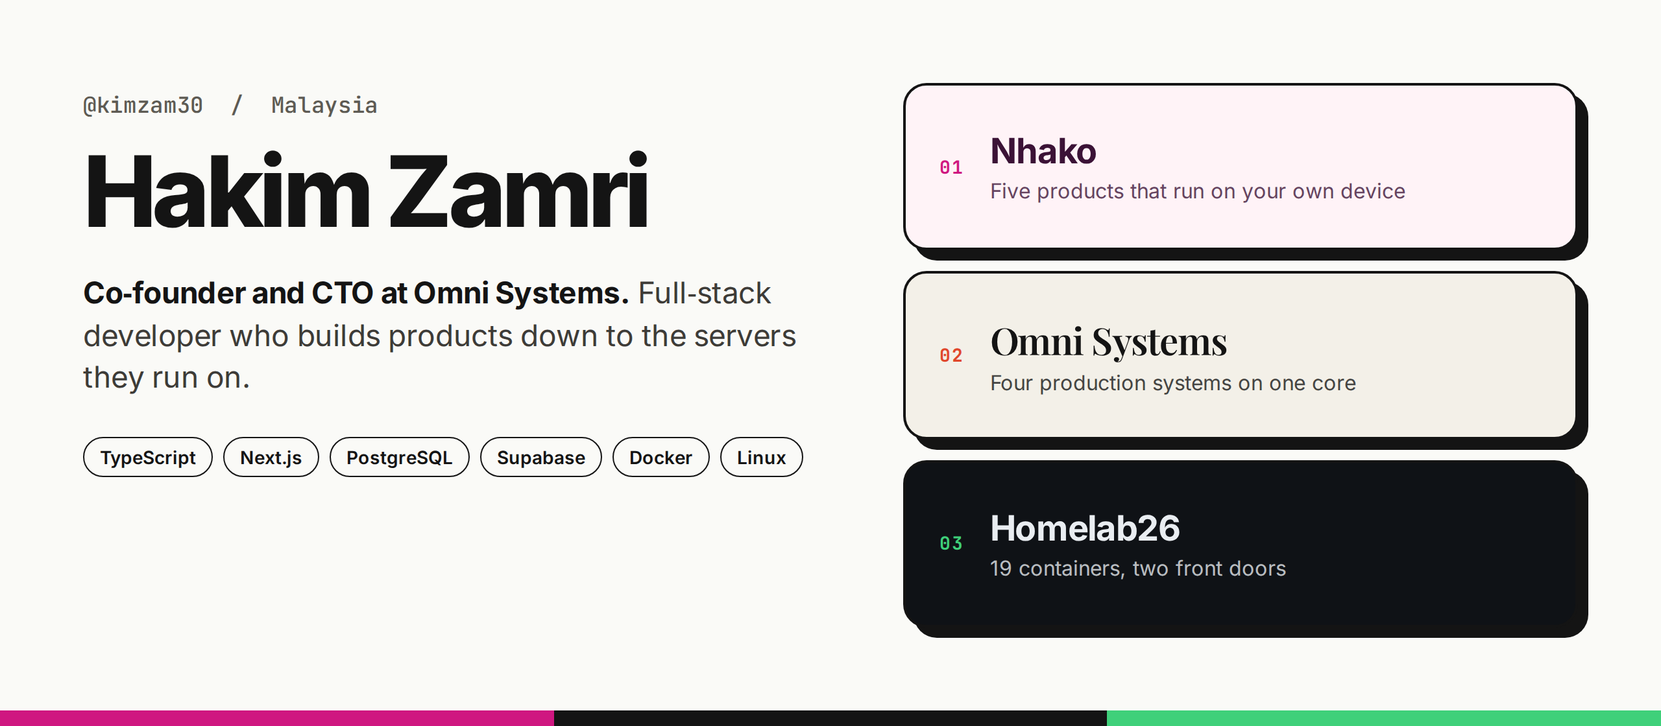
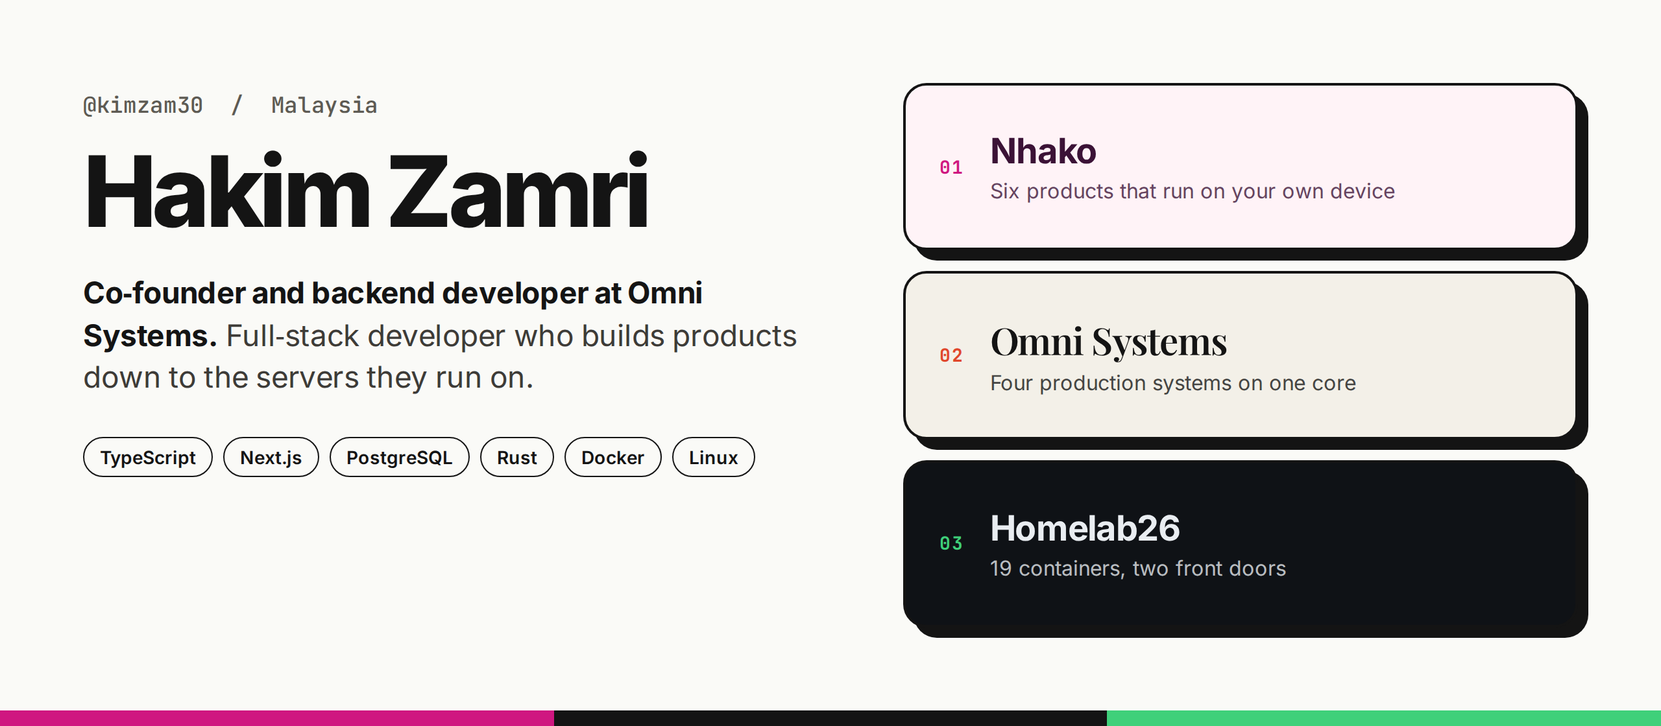
latestinfo

Changed region(s): [[0.0312, 0.375, 0.4688, 0.5312], [0.3125, 0.5938, 0.4688, 0.6562], [0.5938, 0.25, 0.8438, 0.2812]]

diff --git a/launch/posters.html b/launch/posters.html
@@ -7,8 +7,9 @@
 <link href="https://fonts.googleapis.com/css2?family=Inter:wght@400;500;600;700;800&family=JetBrains+Mono:wght@500;700&family=Playfair+Display:ital,wght@0,600;1,600&display=block" rel="stylesheet">
 <style>
   /*
-   * Launch posters for the profile README. One file, four layouts, picked by
-   * ?p=nhako|omni|homelab|banner. House rules: flat fills only (no gradients
+   * Launch posters for the profile README. One file, six layouts, picked by
+   * ?p=nhako|omni|homelab|beam|depot|banner. Beam and Depot use their own
+   * project palettes. House rules: flat fills only (no gradients
    * anywhere, including shadows, which are hard offsets), and no em dashes in
    * any copy.
    */
@@ -52,13 +53,13 @@
   #nhako .win .bar .url { background: #fff; color: #3b1236; border: 2px solid #3b1236; }
   #nhako .phone .screen { background: #fef2f7; }
   #nhako .phone { left: 748px; top: 470px; width: 262px; height: 520px; background: #3b1236; box-shadow: 12px 12px 0 #cf1780; }
-  #nhako .shelf { position: absolute; left: 64px; right: 64px; top: 1030px; display: grid; grid-template-columns: repeat(5, 1fr); gap: 14px; }
-  #nhako .card { display: flex; flex-direction: column; align-items: flex-start; background: #fff; border: 3px solid #3b1236; border-radius: 16px; padding: 16px 14px 14px; box-shadow: 6px 6px 0 #3b1236; }
-  #nhako .card .ic { width: 40px; height: 40px; border-radius: 10px; }
-  #nhako .card svg.ic { padding: 8px; background: #ffe3ee; border: 2px solid #3b1236; fill: none; stroke: #3b1236; stroke-width: 2; stroke-linejoin: miter; }
-  #nhako .card b { display: block; margin-top: 12px; font-size: 18px; letter-spacing: -.02em; }
-  #nhako .card span { display: block; margin-top: 4px; font-size: 14px; line-height: 1.3; color: #7d4a73; }
-  #nhako .pill { font-style: normal; margin-top: auto; display: inline-block; padding: 4px 10px; border-radius: 999px; font-size: 12px; font-weight: 700; letter-spacing: .04em; text-transform: uppercase; border: 2px solid #3b1236; }
+  #nhako .shelf { position: absolute; left: 64px; right: 64px; top: 1026px; display: grid; grid-template-columns: repeat(3, 1fr); gap: 16px 18px; }
+  #nhako .card { position: relative; display: flex; align-items: center; gap: 14px; height: 88px; background: #fff; border: 3px solid #3b1236; border-radius: 16px; padding: 0 14px; box-shadow: 6px 6px 0 #3b1236; }
+  #nhako .card .ic { flex: none; width: 44px; height: 44px; border-radius: 11px; }
+  #nhako .card svg.ic { padding: 9px; background: #ffe3ee; border: 2px solid #3b1236; fill: none; stroke: #3b1236; stroke-width: 2; stroke-linejoin: miter; }
+  #nhako .card b { display: block; font-size: 19px; letter-spacing: -.02em; }
+  #nhako .card span { display: block; margin-top: 3px; font-size: 14px; line-height: 1.25; color: #7d4a73; }
+  #nhako .pill { position: absolute; top: -13px; right: 12px; font-style: normal; display: inline-block; padding: 3px 9px; border-radius: 999px; font-size: 11px; font-weight: 700; letter-spacing: .05em; text-transform: uppercase; border: 2px solid #3b1236; background: #fff; }
   #nhako .pill.live { background: #cf1780; border-color: #cf1780; color: #fff; }
   #nhako .cta { background: #3b1236; color: #fff; }
 
@@ -125,6 +126,73 @@
   #homelab .kin span b { color: #e9edf1; }
   #homelab .cta { background: #3fd07a; color: #0f1216; font-family: "JetBrains Mono", monospace; font-size: 19px; }
 
+  /* ================= BEAM (Nhako Beam brand: blue, dark blue, yellow, ink) ================= */
+  #beam { width: 1080px; height: 1350px; background: #2f8fff; color: #fff; }
+  #beam .brand { font-size: 30px; }
+  #beam .brand .mark { width: 58px; height: 58px; border-radius: 15px; background: #0b1b33; display: grid; place-items: center; }
+  #beam .brand .mark img { width: 34px; height: 34px; }
+  #beam .brand em { font-style: normal; color: #0b1b33; }
+  #beam .tag { padding: 10px 20px; border-radius: 999px; background: #ffd23f; color: #0b1b33; font-size: 18px; font-weight: 800; letter-spacing: -.01em; box-shadow: 5px 5px 0 #1a6fe0; }
+  #beam h1 { font-size: 96px; letter-spacing: -.055em; }
+  #beam h1 em { font-style: normal; color: #0b1b33; }
+  #beam .sub { top: 352px; width: 560px; font-size: 26px; }
+  #beam .bolt { position: absolute; left: 872px; top: 132px; width: 132px; transform: rotate(8deg); filter: drop-shadow(7px 7px 0 #1a6fe0); }
+  #beam .phone { left: 676px; top: 330px; width: 340px; height: 756px; background: #0b1b33; box-shadow: 14px 14px 0 #1a6fe0; border-radius: 52px; padding: 11px; }
+  #beam .phone .screen { border-radius: 42px; background: #f3f4f7; }
+  #beam .phone .screen img { width: 100%; height: 100%; margin: 0; object-fit: cover; object-position: top; }
+  #beam .feats { position: absolute; left: 64px; top: 520px; width: 560px; display: grid; gap: 18px; }
+  #beam .feat { display: flex; gap: 18px; align-items: flex-start; background: #fff; color: #0b1b33; border: 3px solid #0b1b33; border-radius: 18px; padding: 20px 22px; box-shadow: 8px 8px 0 #1a6fe0; }
+  #beam .feat .k { flex: none; width: 48px; height: 48px; border-radius: 12px; background: #ffd23f; border: 2.5px solid #0b1b33; display: grid; place-items: center; }
+  #beam .feat .k svg { width: 26px; height: 26px; fill: none; stroke: #0b1b33; stroke-width: 2.2; stroke-linecap: round; stroke-linejoin: round; }
+  #beam .feat b { display: block; font-size: 25px; letter-spacing: -.025em; }
+  #beam .feat span { display: block; margin-top: 4px; font-size: 17px; line-height: 1.35; color: #3a4a63; }
+  #beam .plat { position: absolute; left: 64px; top: 1132px; display: flex; gap: 12px; align-items: center; }
+  #beam .plat span { padding: 8px 16px; border: 2.5px solid #fff; border-radius: 999px; font-size: 17px; font-weight: 700; }
+  #beam .plat span.ink { border-color: #0b1b33; background: #0b1b33; }
+  #beam .cta { background: #0b1b33; color: #fff; }
+  #beam .fine { color: #e6f0ff; }
+
+  /* ================= DEPOT (Depot's own look: libadwaita light, violet and teal, real badge colours) ================= */
+  #depot { width: 1080px; height: 1350px; background: #f6f5f4; color: #1c1b22; }
+  #depot .brand { font-size: 30px; }
+  #depot .brand img { width: 54px; height: 54px; }
+  #depot .brand small { font-size: 18px; font-weight: 600; color: #6b6875; letter-spacing: 0; }
+  #depot .tag { padding: 10px 20px; border-radius: 999px; background: #14b8a6; color: #fff; font-size: 18px; font-weight: 800; letter-spacing: -.01em; box-shadow: 5px 5px 0 #1c1b22; }
+  #depot h1 { font-size: 92px; }
+  #depot h1 em { font-style: normal; color: #6d5dfc; }
+  #depot .sub { color: #4d4a57; }
+  #depot .app { position: absolute; left: 64px; top: 482px; width: 952px; height: 470px; background: #fff; border: 2.5px solid #1c1b22; border-radius: 16px; overflow: hidden; box-shadow: 14px 14px 0 #6d5dfc; display: grid; grid-template-columns: 236px 1fr; grid-template-rows: 54px 1fr; }
+  #depot .hb { grid-column: 1 / 3; display: flex; align-items: center; padding: 0 18px; border-bottom: 1px solid #dedde3; background: #fff; font-size: 16px; font-weight: 700; }
+  #depot .hb .dots { margin-left: auto; display: flex; gap: 10px; }
+  #depot .hb .dots i { width: 22px; height: 22px; border-radius: 50%; background: #ebeaef; }
+  #depot .hb .search { margin-left: 254px; width: 300px; height: 32px; border-radius: 8px; background: #ebeaef; font-size: 14px; font-weight: 500; color: #6b6875; display: flex; align-items: center; padding: 0 12px; }
+  #depot .side { background: #ebeaef; padding: 14px 10px; border-right: 1px solid #dedde3; }
+  #depot .side div { display: flex; align-items: center; justify-content: space-between; padding: 10px 12px; border-radius: 8px; font-size: 15px; font-weight: 600; color: #3a3843; }
+  #depot .side div.on { background: #d9d6f9; color: #1c1b22; }
+  #depot .side small { font-size: 12px; font-weight: 700; padding: 1px 8px; border-radius: 99px; background: #6d5dfc; color: #fff; }
+  #depot .side .sec { margin: 14px 12px 4px; padding: 0; font-size: 12px; letter-spacing: .1em; text-transform: uppercase; color: #8a8794; }
+  #depot .list { padding: 14px 18px; display: grid; gap: 10px; align-content: start; }
+  #depot .row { display: flex; align-items: center; gap: 14px; padding: 11px 14px; border: 1px solid #e3e2e8; border-radius: 12px; }
+  #depot .row .ic { width: 38px; height: 38px; border-radius: 10px; flex: none; display: grid; place-items: center; font-size: 17px; font-weight: 800; color: #fff; }
+  #depot .row b { display: block; font-size: 16px; }
+  #depot .row em { display: block; font-style: normal; font-size: 13px; color: #6b6875; margin-top: 2px; }
+  #depot .badge { margin-left: auto; border-radius: 99px; padding: 3px 11px; font-size: 13px; font-weight: 700; }
+  #depot .deb { background: #f9dbe6; color: #d70a53; }
+  #depot .snap { background: #fbe2d8; color: #e95420; }
+  #depot .flatpak { background: #dfe9f7; color: #4a90d9; }
+  #depot .manual { background: #d8f2e6; color: #1f9e63; }
+  #depot .btn { margin-left: 10px; padding: 5px 12px; border-radius: 8px; background: #ebeaef; font-size: 13px; font-weight: 700; color: #3a3843; }
+  #depot .btn.go { background: #6d5dfc; color: #fff; }
+  #depot .stats { position: absolute; left: 64px; right: 64px; top: 1000px; display: grid; grid-template-columns: repeat(4, 1fr); border-top: 2.5px solid #1c1b22; }
+  #depot .stat { padding-top: 18px; padding-right: 12px; }
+  #depot .stat b { display: block; font-size: 52px; font-weight: 800; letter-spacing: -.045em; line-height: 1; }
+  #depot .stat b small { font-size: 26px; letter-spacing: -.02em; }
+  #depot .stat span { display: block; margin-top: 8px; font-size: 16px; line-height: 1.3; color: #4d4a57; }
+  #depot .distros { position: absolute; left: 64px; right: 64px; top: 1150px; display: flex; gap: 10px; flex-wrap: wrap; }
+  #depot .distros span { padding: 6px 13px; border: 1.5px solid #1c1b22; border-radius: 999px; font-size: 14px; font-weight: 600; }
+  #depot .cta { background: #1c1b22; color: #fff; }
+  #depot .fine { color: #4d4a57; }
+
   /* ================= BANNER ================= */
   #banner { width: 1280px; height: 560px; background: #fafaf7; color: #141414; }
   #banner .who { position: absolute; left: 64px; top: 70px; width: 560px; }
@@ -159,7 +227,7 @@
     <div class="count">Ecosystem 01 / 03</div>
   </div>
   <h1>Things that run<br><em>on your own device.</em></h1>
-  <p class="sub">Five products from one small workshop in Malaysia. Browser tools that never upload your files, a word&#8209;search game for two, and a screenshot extension with no network calls.</p>
+  <p class="sub">Six products from one small workshop in Malaysia, with a seventh on the way. Browser tools that never upload, a word&#8209;search game for two, file transfer straight between your devices, and a Linux app manager.</p>
 
   <div class="win">
     <div class="bar"><i></i><i></i><i></i><div class="url">tools.nhako.com</div></div>
@@ -168,11 +236,12 @@
   <div class="phone"><div class="screen"><div class="island"></div><img src="shots/search-board.jpg" alt=""></div></div>
 
   <div class="shelf">
-    <div class="card"><img class="ic" src="shots/tools-icon.png" alt=""><b>Nhako Tools</b><span>50 tools, nothing uploads</span><i class="pill live">Live</i></div>
-    <div class="card"><img class="ic" src="shots/search-icon.png" alt=""><b>NhakoSearch</b><span>Word search for two</span><i class="pill live">Live</i></div>
-    <div class="card"><img class="ic" src="shots/capture-icon.png" alt=""><b>NhakoCapture</b><span>Screenshots for Brave and Chrome</span><i class="pill">v2.0</i></div>
-    <div class="card"><svg class="ic" viewBox="0 0 24 24"><path d="M3 4h18v12H10l-5 4v-4H3z"/><path d="M7.4 9.2h1.8v1.8H7.4zM11.1 9.2h1.8v1.8h-1.8zM14.8 9.2h1.8v1.8h-1.8z"/></svg><b>Nhako Bot</b><span>A local LLM on Telegram</span><i class="pill">Self&#8209;host</i></div>
-    <div class="card"><svg class="ic" viewBox="0 0 24 24"><path d="M2 6h7v12H2z"/><path d="M15 6h7v12h-7z"/><path d="M9.5 12h5"/><path d="M12.4 9.6L14.8 12l-2.4 2.4"/></svg><b>Nhako Beam</b><span>Peer to peer file transfer</span><i class="pill">Planning</i></div>
+    <div class="card"><img class="ic" src="shots/tools-icon.png" alt=""><div><b>Nhako Tools</b><span>50 tools, nothing uploads</span></div><i class="pill live">Live</i></div>
+    <div class="card"><img class="ic" src="shots/search-icon.png" alt=""><div><b>NhakoSearch</b><span>Word search for two</span></div><i class="pill live">Live</i></div>
+    <div class="card"><img class="ic" src="shots/capture-icon.png" alt=""><div><b>NhakoCapture</b><span>On the Chrome Web Store</span></div><i class="pill live">Live</i></div>
+    <div class="card"><img class="ic" src="shots/depot-icon.svg" alt=""><div><b>Nhako Depot</b><span>Every Linux app, one window</span></div><i class="pill live">Released</i></div>
+    <div class="card"><img class="ic" src="shots/beam-icon.svg" alt=""><div><b>Nhako Beam</b><span>Device to device, no cloud</span></div><i class="pill">Alpha</i></div>
+    <div class="card"><svg class="ic" viewBox="0 0 24 24"><path d="M3 4h18v12H10l-5 4v-4H3z"/><path d="M7.4 9.2h1.8v1.8H7.4zM11.1 9.2h1.8v1.8h-1.8zM14.8 9.2h1.8v1.8h-1.8z"/></svg><div><b>Nhako Bot</b><span>A local LLM on Telegram</span></div><i class="pill">Self&#8209;host</i></div>
   </div>
 
   <div class="foot">
@@ -206,7 +275,7 @@
 
   <div class="foot">
     <div class="cta">omnisystems.my</div>
-    <div class="fine">Hakim Zamri, Co&#8209;founder and CTO.<br>Puchong, Selangor.</div>
+    <div class="fine">Hakim Zamri, Co&#8209;founder and backend developer.<br>Puchong, Selangor.</div>
   </div>
 </section>
 
@@ -261,16 +330,83 @@
   </div>
 </section>
 
+<!-- ======================= NHAKO BEAM ======================= -->
+<section class="poster" id="beam">
+  <div class="top">
+    <div class="brand"><div class="mark"><img src="shots/beam-bolt.svg" alt=""></div>Nhako <em>Beam</em></div>
+    <div class="tag">Alpha 0.1.0</div>
+  </div>
+  <h1>Send anything.<br><em>Straight to them.</em></h1>
+  <p class="sub">Open source file transfer that goes from one of your devices to another. Nothing is uploaded or kept in between.</p>
+  <img class="bolt" src="shots/beam-bolt.svg" alt="">
+
+  <div class="feats">
+    <div class="feat"><div class="k"><svg viewBox="0 0 24 24"><path d="M7 18h10a4 4 0 0 0 .6-7.95A6 6 0 0 0 6.1 9.6 4.2 4.2 0 0 0 7 18z"/><path d="M4 4l16 16"/></svg></div><div><b>No cloud</b><span>Device to device, encrypted end to end. On the same Wi&#8209;Fi they find each other.</span></div></div>
+    <div class="feat"><div class="k"><svg viewBox="0 0 24 24"><path d="M5 12h14"/><path d="M8 8l-4 4 4 4"/><path d="M16 8l4 4-4 4"/></svg></div><div><b>No size limit</b><span>Only your disk decides. A dropped link resumes from the last confirmed byte.</span></div></div>
+    <div class="feat"><div class="k"><svg viewBox="0 0 24 24"><rect x="4" y="4" width="6" height="6"/><rect x="14" y="4" width="6" height="6"/><rect x="4" y="14" width="6" height="6"/><path d="M14 14h2v2h-2zM18 18h2v2h-2zM14 18h2M18 14h2"/></svg></div><div><b>No account</b><span>Pair once with a four&#8209;word code or a QR code. Run your own relay in Docker if you like.</span></div></div>
+  </div>
+
+  <div class="phone"><div class="screen"><img src="shots/beam-phone.png" alt=""></div></div>
+
+  <div class="plat"><span class="ink">Windows</span><span class="ink">Linux</span><span class="ink">Android</span><span>MIT or Apache 2.0</span></div>
+
+  <div class="foot">
+    <div class="cta">github.com/kimzam30/Nhako&#8209;beam</div>
+    <div class="fine">Built on iroh, Tauri and<br>Jetpack Compose. By Nhako.</div>
+  </div>
+</section>
+
+<!-- ======================= NHAKO DEPOT ======================= -->
+<section class="poster" id="depot">
+  <div class="top">
+    <div class="brand"><img src="shots/depot-icon.svg" alt="">Depot <small>by Nhako</small></div>
+    <div class="tag">Released</div>
+  </div>
+  <h1>Every Linux app,<br><em>in one place.</em></h1>
+  <p class="sub">Debs, Snaps, Flatpaks and apps installed by hand, each with a badge that says where it came from. Update it or remove it the right way, without knowing the command.</p>
+
+  <div class="app">
+    <div class="hb">Depot<div class="search">Search apps</div><div class="dots"><i></i><i></i><i></i></div></div>
+    <div class="side">
+      <div class="on">Installed</div>
+      <div>Updates <small>New</small></div>
+      <div>Broken launchers</div>
+      <div class="sec">More</div>
+      <div>Advanced</div>
+    </div>
+    <div class="list">
+      <div class="row"><div class="ic" style="background:#e95420">F</div><div><b>Firefox</b><em>Web browser</em></div><span class="badge snap">Snap</span><span class="btn">Remove</span></div>
+      <div class="row"><div class="ic" style="background:#4a90d9">O</div><div><b>Obsidian</b><em>Notes</em></div><span class="badge flatpak">Flatpak</span><span class="btn go">Update</span></div>
+      <div class="row"><div class="ic" style="background:#d70a53">V</div><div><b>VLC media player</b><em>Video and audio</em></div><span class="badge deb">Deb</span><span class="btn">Remove</span></div>
+      <div class="row"><div class="ic" style="background:#2ec27e">D</div><div><b>Discord</b><em>Installed by hand, goes to the Trash</em></div><span class="badge manual">Manual</span><span class="btn">Remove</span></div>
+      <div class="row"><div class="ic" style="background:#8a8794">S</div><div><b>System updates</b><em>Libraries, drivers and runtimes</em></div><span class="badge" style="background:#ebeaef;color:#3a3843">Grouped</span><span class="btn go">Update all</span></div>
+    </div>
+  </div>
+
+  <div class="stats">
+    <div class="stat"><b>50<small> ms</small></b><span>to scan about 2,500 packages</span></div>
+    <div class="stat"><b>1<small> MB</small></b><span>one native program, Rust and GTK 4</span></div>
+    <div class="stat"><b>4</b><span>install types in one window</span></div>
+    <div class="stat"><b>Undo</b><span>hand installs go to the Trash, not gone</span></div>
+  </div>
+  <div class="distros"><span>Ubuntu 24.04</span><span>Zorin OS 18</span><span>Linux Mint 22</span><span>Fedora 40</span><span>and newer</span></div>
+
+  <div class="foot">
+    <div class="cta">github.com/kimzam30/Nhako&#8209;Depot</div>
+    <div class="fine">Free and open source,<br>GPL 3.0 or later.</div>
+  </div>
+</section>
+
 <!-- ======================= README BANNER ======================= -->
 <section class="poster" id="banner">
   <div class="who">
     <div class="mono">@kimzam30 &nbsp;/&nbsp; Malaysia</div>
     <h2>Hakim Zamri</h2>
-    <p><b>Co&#8209;founder and CTO at Omni Systems.</b> Full&#8209;stack developer who builds products down to the servers they run on.</p>
-    <div class="tags"><span>TypeScript</span><span>Next.js</span><span>PostgreSQL</span><span>Supabase</span><span>Docker</span><span>Linux</span></div>
+    <p><b>Co&#8209;founder and backend developer at Omni Systems.</b> Full&#8209;stack developer who builds products down to the servers they run on.</p>
+    <div class="tags"><span>TypeScript</span><span>Next.js</span><span>PostgreSQL</span><span>Rust</span><span>Docker</span><span>Linux</span></div>
   </div>
   <div class="tiles">
-    <div class="tile t1"><div class="n">01</div><div><b>Nhako</b><span>Five products that run on your own device</span></div></div>
+    <div class="tile t1"><div class="n">01</div><div><b>Nhako</b><span>Six products that run on your own device</span></div></div>
     <div class="tile t2"><div class="n">02</div><div><b>Omni Systems</b><span>Four production systems on one core</span></div></div>
     <div class="tile t3"><div class="n">03</div><div><b>Homelab26</b><span>19 containers, two front doors</span></div></div>
   </div>

diff --git a/README.md b/README.md
@@ -1,5 +1,5 @@
 <p align="center">
-  <img src="assets/posters/banner.png" alt="Hakim Zamri, Co-founder and CTO at Omni Systems. Three ecosystems: Nhako, Omni Systems and Homelab26." width="100%" />
+  <img src="assets/posters/banner.png" alt="Hakim Zamri, Co-founder and backend developer at Omni Systems. Three ecosystems: Nhako, Omni Systems and Homelab26." width="100%" />
 </p>
 
 <p align="center">
@@ -13,17 +13,31 @@
 
 ## About
 
-Co-founder and CTO at [Omni Systems](https://www.omnisystems.my), where I lead backend architecture, data and infrastructure. IT undergraduate and full-stack developer working across the whole stack, from Next.js product surfaces down to the Docker hosts and Linux boxes they run on.
+Co-founder and backend developer at [Omni Systems](https://www.omnisystems.my), where I work on backend architecture, data and infrastructure. IT undergraduate and full-stack developer working across the whole stack, from Next.js product surfaces down to the Docker hosts and Linux boxes they run on.
 
 Outside the day job I run **Nhako**, a one-person workshop of products that run on your own device, and a documented homelab that doubles as staging and storage. I care about systems that stay maintainable a year later, not demos that look good for a week.
 
 | | |
 |---|---|
-| **Just shipped** | [Nhako Tools 1.0](https://tools.nhako.com): 50 browser tools with no upload step, in English and Bahasa Melayu. |
-| **Currently building** | [Octomations](https://www.octomations.com) and [Intrafluence](https://www.intrafluence.com) at Omni Systems, and [NhakoSearch](https://search.nhako.com) on the side. |
-| **Working in** | TypeScript, Next.js, PostgreSQL, Supabase, Cloudflare R2, Vercel. |
+| **Just shipped** | [Nhako Depot](https://github.com/kimzam30/Nhako-Depot): every app on a Linux computer in one window, updated and removed the right way. And the first alpha of [Nhako Beam](https://github.com/kimzam30/Nhako-beam/releases/tag/v0.1.0): file transfer straight between your own devices. |
+| **Currently building** | [Octomations](https://www.octomations.com) and [Intrafluence](https://www.intrafluence.com) at Omni Systems; Nhako Beam toward a Play Store release, and NhakoBazaar, a directory for Malaysian-made goods. |
+| **Working in** | TypeScript, Next.js, PostgreSQL, Supabase and Rust, on Vercel, Cloudflare R2 and Docker. |
 | **Also running** | A self-hosted homelab of 19 containers across 9 Docker Compose projects, with private services reachable only over Tailscale. |
 | **Studying** | Operating systems, OOP and data structures, and low-level C/C++ alongside the product work. |
+
+---
+
+## Latest Launches
+
+<p align="center">
+  <a href="assets/posters/depot.png"><img src="assets/posters/depot.png" alt="Nhako Depot poster: every Linux app, in one place. Released." width="48%" /></a>
+  <a href="assets/posters/beam.png"><img src="assets/posters/beam.png" alt="Nhako Beam poster: send anything, straight to them. Alpha 0.1.0." width="48%" /></a>
+</p>
+
+| | |
+|---|---|
+| **[Nhako Depot](https://github.com/kimzam30/Nhako-Depot)**<br/><sub>Released</sub> | A Linux app manager for people new to Linux. Debs, Snaps, Flatpaks and hand-installed apps in one window, each badged with where it came from. Updates and safe removal through PackageKit, hand installs go to the Trash. Scans about 2,500 packages in 50 ms from a 1 MB native binary.<br/>`Rust` `GTK 4` `libadwaita` `PackageKit` |
+| **[Nhako Beam](https://github.com/kimzam30/Nhako-beam)**<br/><sub>[Alpha 0.1.0](https://github.com/kimzam30/Nhako-beam/releases/tag/v0.1.0)</sub> | An open alternative to Blip. Files go straight from one of your devices to another on Windows, Linux and Android: no cloud, no size limit, no account. Pair with a four-word code, resume from the last confirmed byte, and run your own relay in Docker if you want.<br/>`Rust` `iroh` `Tauri` `Kotlin` |
 
 ---
 
@@ -45,9 +59,11 @@ Things that run on your own device. Every product lives at **[nhako.com](https:/
 |---|---|
 | **[Nhako Tools](https://tools.nhako.com)**<br/><sub>Live</sub> | 50 PDF, image, media, calculator and developer tools that run entirely in the browser. Nothing uploads, so nothing waits: no queue, no size cap, no account. Installs as an app and works offline.<br/>`Astro 5` `Preact` `TypeScript` `WASM` |
 | **[NhakoSearch](https://search.nhako.com)**<br/><sub>Live</sub> | A cozy, hand-drawn word-search game for two: a daily puzzle, a 360-level path, 12 themes, and realtime race or co-op. Seeded generation guarantees both players an identical board.<br/>`Next.js 16` `Supabase` `Realtime` |
-| **[NhakoCapture](https://github.com/kimzam30/NhakoCapture)**<br/><sub>v2.0, load unpacked</sub> | Opera's one-keystroke screenshot rebuilt for Brave and Chrome. Freeze the page, frame a region, annotate, copy. Whole page to PNG or PDF, real redaction, no network calls.<br/>`JavaScript` `Manifest V3` |
+| **[NhakoCapture](https://chromewebstore.google.com/detail/nhakocapture/jappjdkoignhbjjlemegflaleoeebpln)**<br/><sub>Live, Chrome Web Store</sub> | Opera's one-keystroke screenshot rebuilt for Chrome, Brave and Edge. Freeze the page, frame a region, annotate, copy. Whole page to PNG or PDF, real redaction, no network calls. [Source](https://github.com/kimzam30/NhakoCapture).<br/>`JavaScript` `Manifest V3` |
 | **[Nhako Bot](https://github.com/kimzam30/Nhako-Bot)**<br/><sub>Self-host</sub> | Telegram assistant that runs on your own hardware: Llama 3.2 through Ollama, pgvector long-term memory and offline voice transcription with faster-whisper.<br/>`Python` `Ollama` `pgvector` |
-| **[Nhako Beam](https://github.com/kimzam30/Nhako-beam)**<br/><sub>Planning</sub> | Direct file transfer with no cloud, no size cap and no account. Peer to peer first, a self-hosted Docker relay only when the network leaves no other way.<br/>`Rust` `QUIC` `Tauri` |
+| **[Nhako Depot](https://github.com/kimzam30/Nhako-Depot)**<br/><sub>Released</sub> | Every app on your Linux computer in one place: Deb, Snap, Flatpak and hand installs, with updates, safe removal and broken-launcher clean-up. Built from source in about five minutes.<br/>`Rust` `GTK 4` `libadwaita` |
+| **[Nhako Beam](https://github.com/kimzam30/Nhako-beam)**<br/><sub>Alpha 0.1.0</sub> | Direct file transfer between your own devices on Windows, Linux and Android. Encrypted end to end, peer to peer first, through a relay only when it has to, and the relay is yours to self-host.<br/>`Rust` `iroh` `Tauri` `Kotlin` |
+| **NhakoBazaar**<br/><sub>In development</sub> | A free directory for Malaysian-made goods: brands, creators and home sellers show their products and buyers contact them directly. No payments. In Bahasa Melayu and English.<br/>`Next.js 16` `Supabase` `PostGIS` |
 
 ### 02 &nbsp;Omni Systems
 
@@ -125,7 +141,7 @@ flowchart TD
 <div align="center">
   <img src="https://skillicons.dev/icons?i=ts,js,react,nextjs,astro,tailwind,html,css&theme=dark" alt="Frontend" />
   <br/><br/>
-  <img src="https://skillicons.dev/icons?i=python,java,cpp,c,postgres,supabase,firebase&theme=dark" alt="Backend and languages" />
+  <img src="https://skillicons.dev/icons?i=rust,python,kotlin,java,cpp,c,postgres,supabase,firebase&theme=dark" alt="Backend and languages" />
   <br/><br/>
   <img src="https://skillicons.dev/icons?i=linux,docker,nginx,bash,git,cloudflare,vercel,vscode&theme=dark" alt="Infrastructure and tooling" />
 </div>
